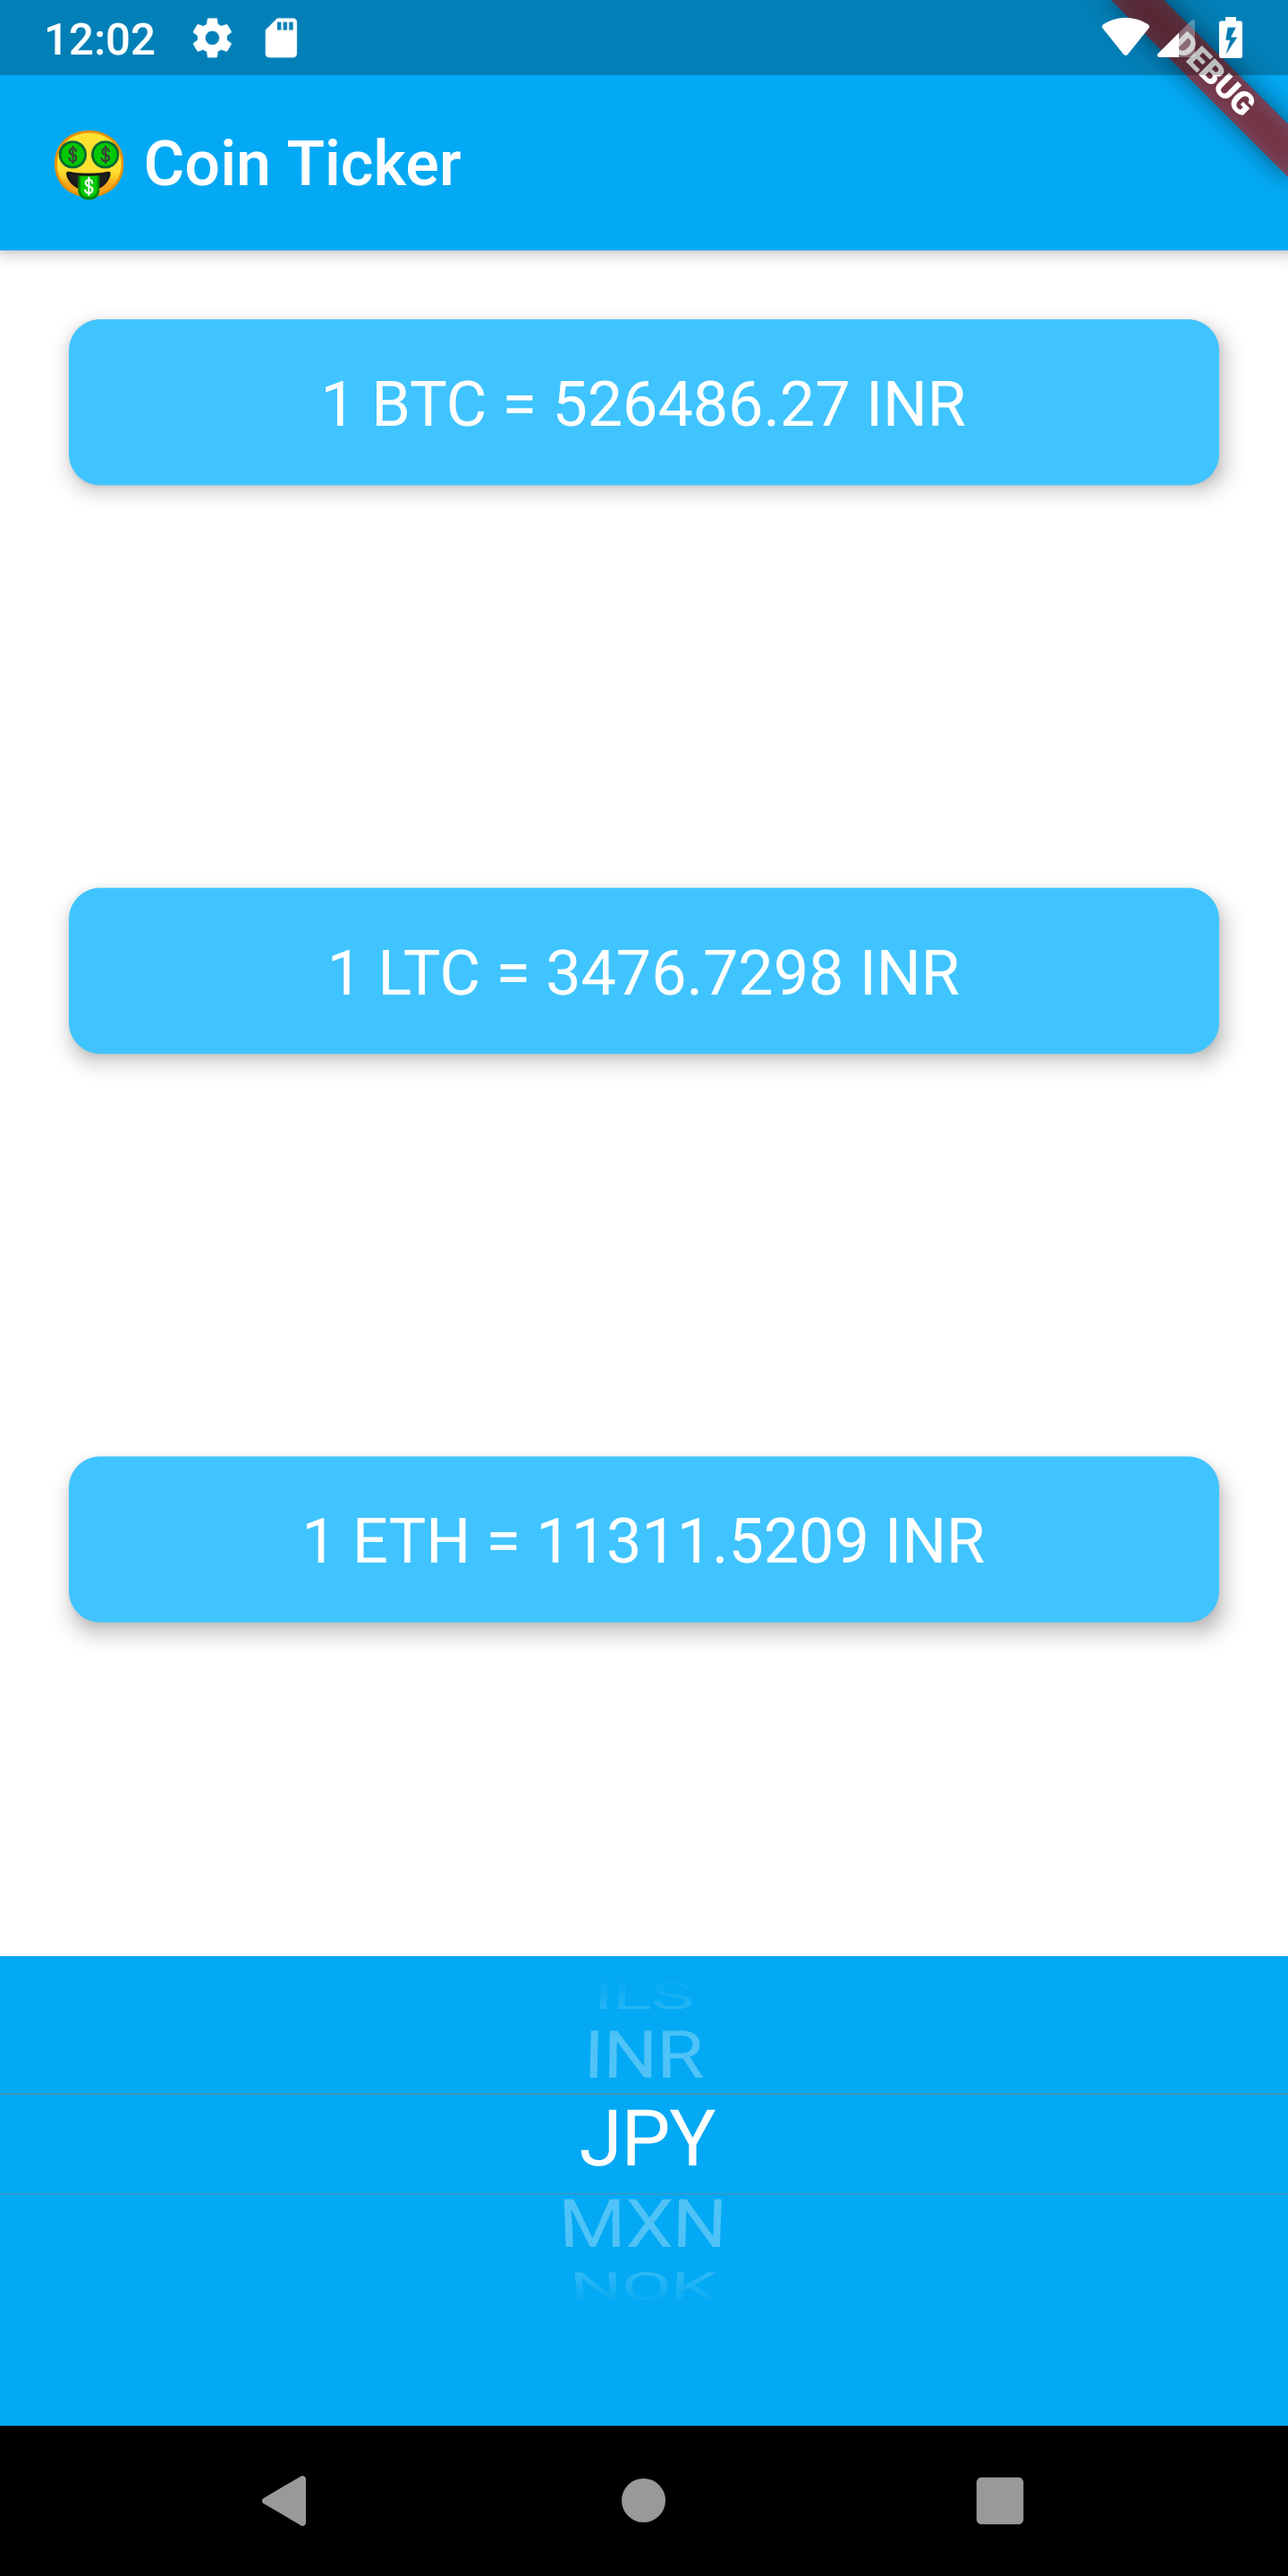
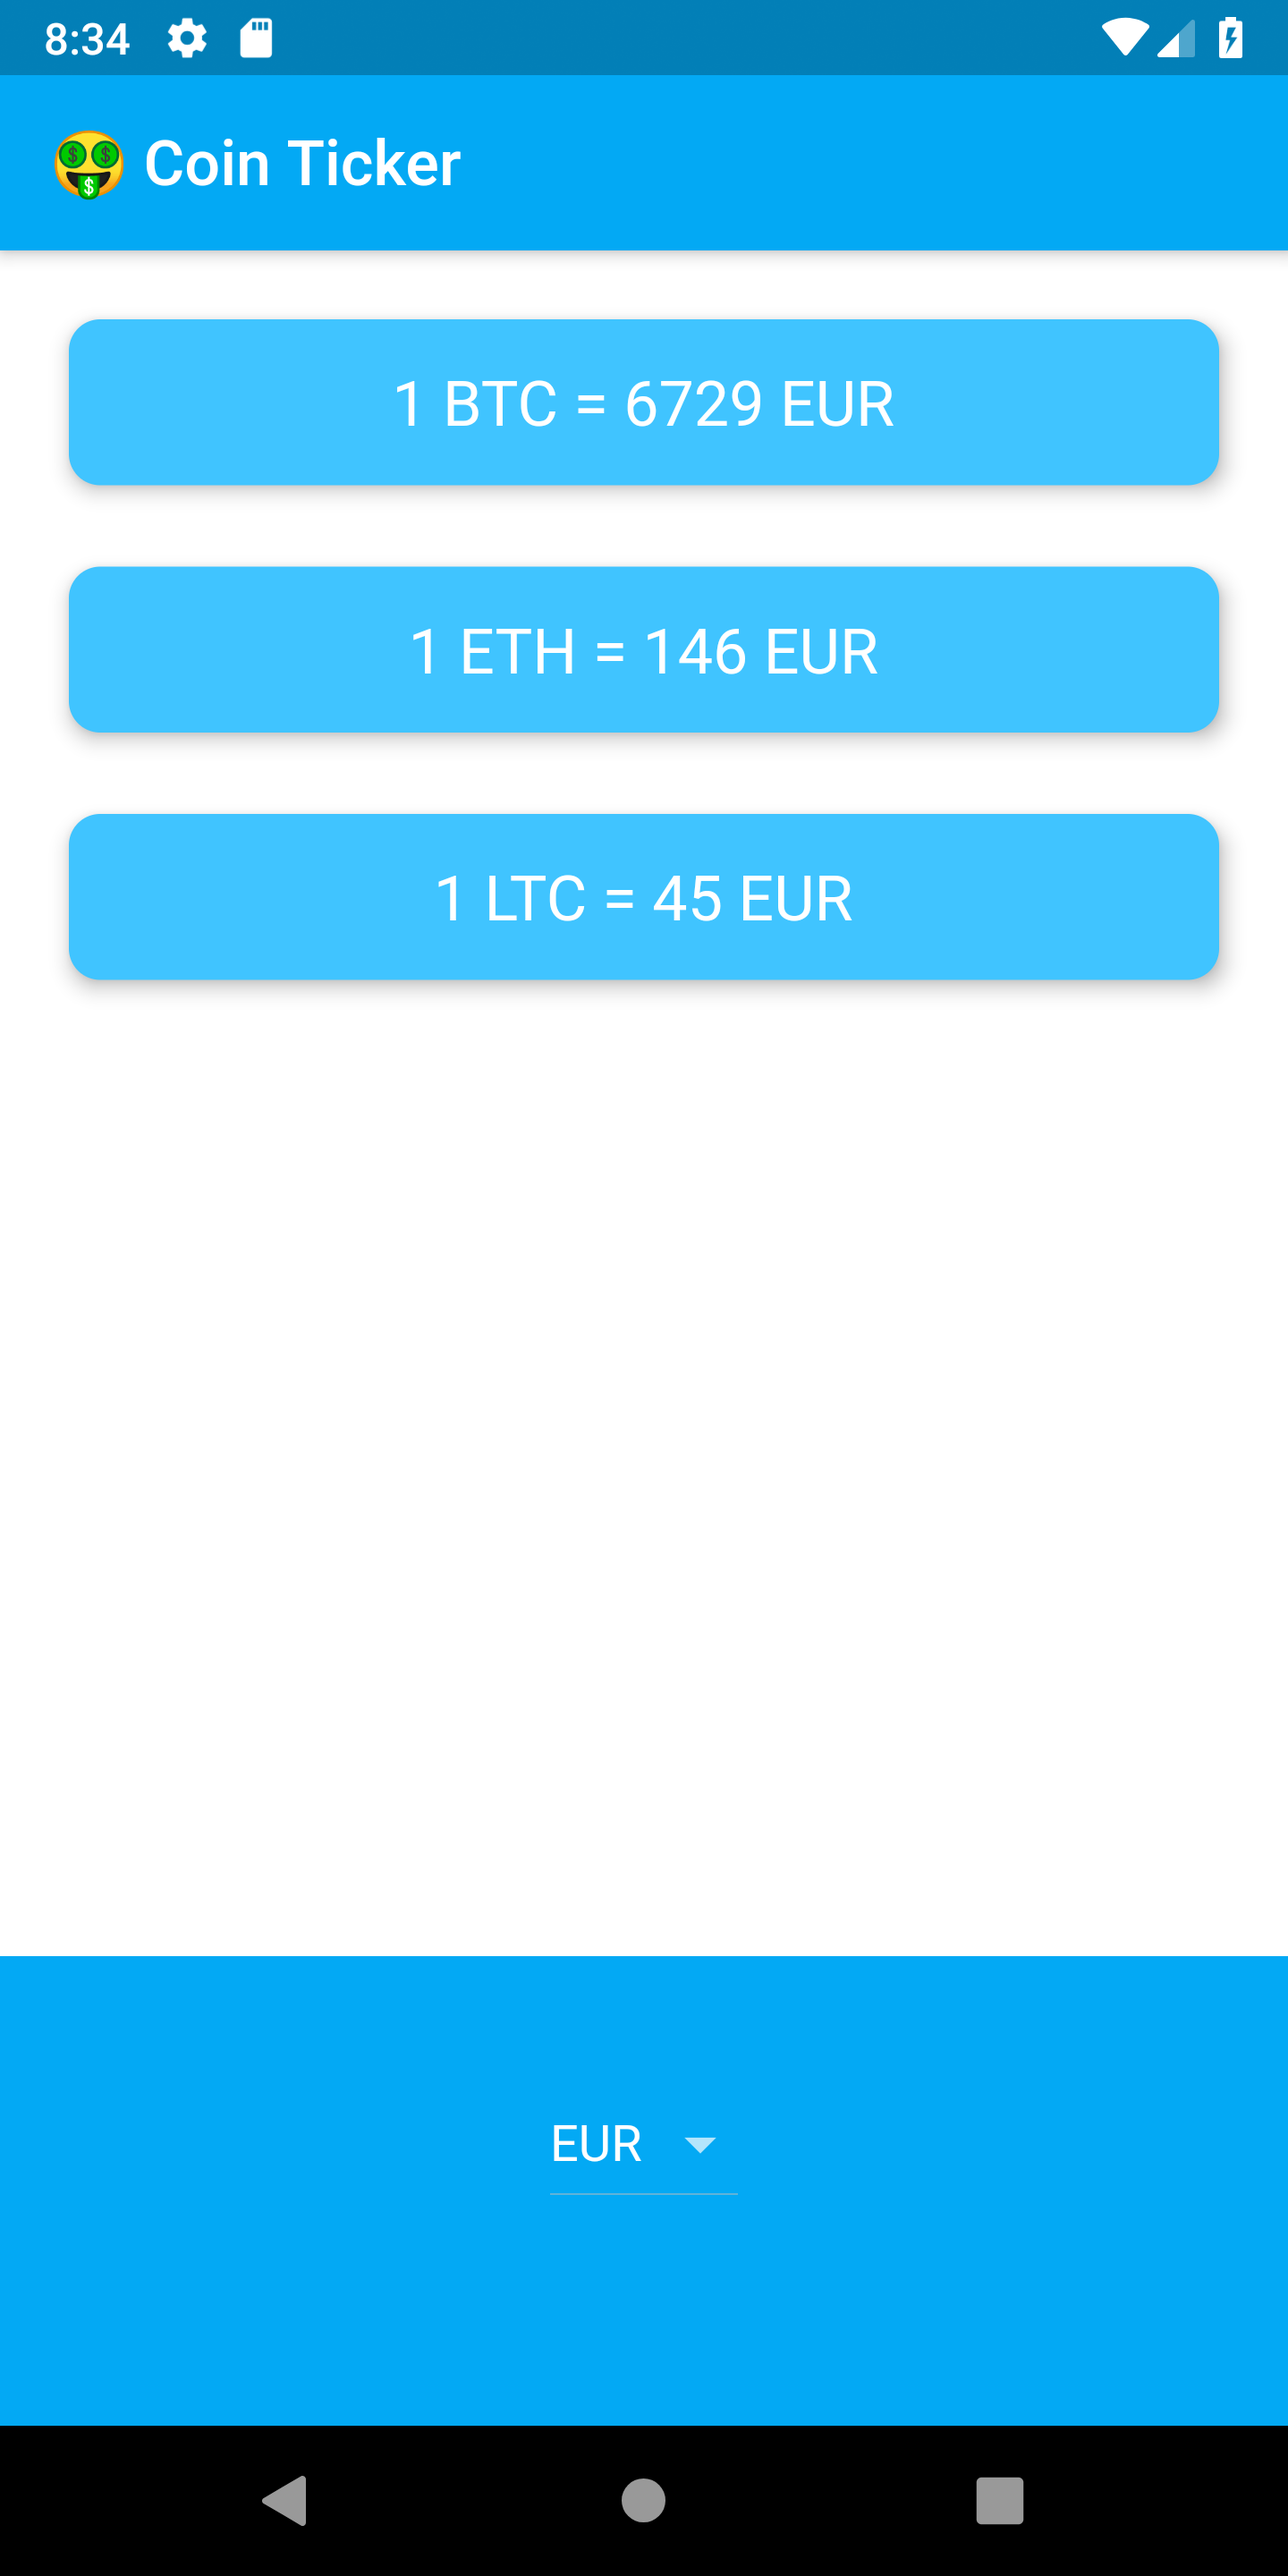
[UPDATE][chapter-10] Level 3 Challenge and some styling

diff --git a/chapter_10/bitcoin-ticker-flutter/lib/price_screen.dart b/chapter_10/bitcoin-ticker-flutter/lib/price_screen.dart
@@ -16,18 +16,6 @@ class _PriceScreenState extends State<PriceScreen> {
   String convertionRateLTC = '?';
   String convertionRateETH = '?';
 
-  Future updateData(String currency) async {
-    var coinDataBTC = await this.coinData.getCoinData('BTC', currency);
-    var coinDataLTC = await this.coinData.getCoinData('LTC', currency);
-    var coinDataETH = await this.coinData.getCoinData('ETH', currency);
-    setState(() {
-      selectedCurrency = currency;
-      convertionRateBTC = coinDataBTC.toString();
-      convertionRateLTC = coinDataLTC.toString();
-      convertionRateETH = coinDataETH.toString();
-    });
-  }
-
   DropdownButton androidDropdown() {
     return DropdownButton<String>(
       value: selectedCurrency,
@@ -40,23 +28,64 @@ class _PriceScreenState extends State<PriceScreen> {
           )
           .toList(),
       onChanged: (String value) {
-        updateData(value);
+        selectedCurrency = value;
+        getData();
       },
     );
   }
 
   CupertinoPicker iosPicker() {
     return CupertinoPicker(
-      backgroundColor: Colors.lightBlue,
+      backgroundColor: Colors.lightBlue.shade200,
       itemExtent: 32.0,
       onSelectedItemChanged: (selectedIndex) {
-        updateData(currenciesList[selectedIndex]);
+        selectedCurrency = currenciesList[selectedIndex];
+        getData();
       },
       children: currenciesList
           .map(
             (val) => Text(val),
           )
           .toList(),
+    );
+  }
+
+  Map<String, String> coinValues = {};
+  bool isWaiting = false;
+
+  void getData() async {
+    isWaiting = true;
+    try {
+      var data = await CoinData().getCoinData(selectedCurrency);
+      isWaiting = false;
+      setState(() {
+        coinValues = data;
+      });
+    } catch (e) {
+      print(e);
+    }
+  }
+
+  @override
+  void initState() {
+    super.initState();
+    getData();
+  }
+
+  Column makeCards() {
+    List<CryptoCard> cryptoCards = [];
+    for (String crypto in cryptoList) {
+      cryptoCards.add(
+        CryptoCard(
+          cryptoCurrency: crypto,
+          selectedCurrency: selectedCurrency,
+          value: isWaiting ? '?' : coinValues[crypto],
+        ),
+      );
+    }
+    return Column(
+      crossAxisAlignment: CrossAxisAlignment.stretch,
+      children: cryptoCards,
     );
   }
 
@@ -70,77 +99,52 @@ class _PriceScreenState extends State<PriceScreen> {
         mainAxisAlignment: MainAxisAlignment.spaceBetween,
         crossAxisAlignment: CrossAxisAlignment.stretch,
         children: <Widget>[
-          Padding(
-            padding: EdgeInsets.fromLTRB(18.0, 18.0, 18.0, 0),
-            child: Card(
-              color: Colors.lightBlueAccent,
-              elevation: 5.0,
-              shape: RoundedRectangleBorder(
-                borderRadius: BorderRadius.circular(10.0),
-              ),
-              child: Padding(
-                padding: EdgeInsets.symmetric(vertical: 15.0, horizontal: 28.0),
-                child: Text(
-                  '1 BTC = $convertionRateBTC $selectedCurrency',
-                  textAlign: TextAlign.center,
-                  style: TextStyle(
-                    fontSize: 20.0,
-                    color: Colors.white,
-                  ),
-                ),
-              ),
-            ),
-          ),
-          Padding(
-            padding: EdgeInsets.fromLTRB(18.0, 18.0, 18.0, 0),
-            child: Card(
-              color: Colors.lightBlueAccent,
-              elevation: 5.0,
-              shape: RoundedRectangleBorder(
-                borderRadius: BorderRadius.circular(10.0),
-              ),
-              child: Padding(
-                padding: EdgeInsets.symmetric(vertical: 15.0, horizontal: 28.0),
-                child: Text(
-                  '1 LTC = $convertionRateLTC $selectedCurrency',
-                  textAlign: TextAlign.center,
-                  style: TextStyle(
-                    fontSize: 20.0,
-                    color: Colors.white,
-                  ),
-                ),
-              ),
-            ),
-          ),
-          Padding(
-            padding: EdgeInsets.fromLTRB(18.0, 18.0, 18.0, 0),
-            child: Card(
-              color: Colors.lightBlueAccent,
-              elevation: 5.0,
-              shape: RoundedRectangleBorder(
-                borderRadius: BorderRadius.circular(10.0),
-              ),
-              child: Padding(
-                padding: EdgeInsets.symmetric(vertical: 15.0, horizontal: 28.0),
-                child: Text(
-                  '1 ETH = $convertionRateETH $selectedCurrency',
-                  textAlign: TextAlign.center,
-                  style: TextStyle(
-                    fontSize: 20.0,
-                    color: Colors.white,
-                  ),
-                ),
-              ),
-            ),
-          ),
+          makeCards(),
           Container(
             height: 150.0,
             alignment: Alignment.center,
             padding: EdgeInsets.only(bottom: 30.0),
-            color: Colors.lightBlue,
+            color: Colors.lightBlue.shade400,
             child: Platform.isIOS ? iosPicker() : androidDropdown(),
           ),
         ],
+      ),
+    );
+  }
+}
+
+class CryptoCard extends StatelessWidget {
+  const CryptoCard({
+    this.value,
+    this.selectedCurrency,
+    this.cryptoCurrency,
+  });
+
+  final String value;
+  final String selectedCurrency;
+  final String cryptoCurrency;
+
+  @override
+  Widget build(BuildContext context) {
+    return Padding(
+      padding: EdgeInsets.fromLTRB(18.0, 18.0, 18.0, 0),
+      child: Card(
+        color: Colors.lightBlueAccent.shade700,
+        elevation: 5.0,
+        shape: RoundedRectangleBorder(
+          borderRadius: BorderRadius.circular(10.0),
+        ),
+        child: Padding(
+          padding: EdgeInsets.symmetric(vertical: 15.0, horizontal: 28.0),
+          child: Text(
+            '1 $cryptoCurrency = $value $selectedCurrency',
+            textAlign: TextAlign.center,
+            style: TextStyle(
+              fontSize: 20.0,
+              color: Colors.white,
+            ),
+          ),
+        ),
       ),
     );
   }

diff --git a/chapter_10/bitcoin-ticker-flutter/lib/coin_data.dart b/chapter_10/bitcoin-ticker-flutter/lib/coin_data.dart
@@ -31,10 +31,24 @@ const List<String> cryptoList = [
   'LTC',
 ];
 
+const String kcoindataAPI =
+    'https://apiv2.bitcoinaverage.com/indices/global/ticker';
+
 class CoinData {
-  Future<dynamic> getCoinData(String crypto, String currency) async {
-    http.Response response = await http.get(
-        'https://apiv2.bitcoinaverage.com/indices/global/ticker/$crypto$currency');
-    return jsonDecode(response.body)['last'];
+  Future getCoinData(String selectedCurrency) async {
+    Map<String, String> cryptoPrices = {};
+    for (String crypto in cryptoList) {
+      String requestURL = '$kcoindataAPI/$crypto$selectedCurrency';
+      http.Response response = await http.get(requestURL);
+      if (response.statusCode == 200) {
+        var decodedData = jsonDecode(response.body);
+        double lastPrice = decodedData['last'];
+        cryptoPrices[crypto] = lastPrice.toStringAsFixed(0);
+      } else {
+        print(response.statusCode);
+        throw 'Problem with the get request';
+      }
+    }
+    return cryptoPrices;
   }
 }

diff --git a/chapter_10/bitcoin-ticker-flutter/lib/main.dart b/chapter_10/bitcoin-ticker-flutter/lib/main.dart
@@ -7,9 +7,10 @@ class MyApp extends StatelessWidget {
   @override
   Widget build(BuildContext context) {
     return MaterialApp(
+      debugShowCheckedModeBanner: false,
       theme: ThemeData.dark().copyWith(
-          primaryColor: Colors.lightBlue,
-          scaffoldBackgroundColor: Colors.white),
+          primaryColor: Colors.lightBlue.shade400,
+          scaffoldBackgroundColor: Colors.grey.shade900),
       home: PriceScreen(),
     );
   }
